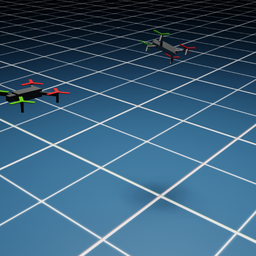
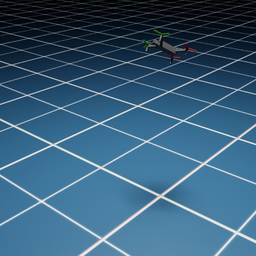
drone update
simulamos que los rotores giran y se detienen cuando corresponde

diff --git a/ov/tmpRafa/fleet/UAM_minidrone/UAM_minidrone.py b/ov/tmpRafa/fleet/UAM_minidrone/UAM_minidrone.py
@@ -53,6 +53,10 @@ class UAM_minidrone(BehaviorScript):
         self.forceSW_atr.Set(Gf.Vec3f(0,0,0))        
         
 
+        self.primRotStatic = self.prim.GetChild("rotors_spinning")
+
+
+
         ########################################################################
         ## Navigation parameters
 
@@ -224,6 +228,15 @@ class UAM_minidrone(BehaviorScript):
         self.current_time = current_time
         self.delta_time = delta_time
 
+
+
+        if self.current_time > 5:
+            self.command_off()
+            self.rotors_off()
+
+
+
+
         # Update the drone status
         self.IMU()
         self.servo_control()
@@ -244,14 +257,18 @@ class UAM_minidrone(BehaviorScript):
 
 
     def rotors_off(self):
+
         # Apagamos motores
         self.w_rotor_NE = 0
         self.w_rotor_NW = 0
         self.w_rotor_SE = 0
         self.w_rotor_SW = 0
         self.rotors_on = False
+        self.primRotStatic.SetActive(False)
+
         # Reset del control
         self.E = np.zeros((4, 1))
+
 
 
 
@@ -264,7 +281,7 @@ class UAM_minidrone(BehaviorScript):
             self.rotors_off()
             return
 
-
+        self.primRotStatic.SetActive(True)
 
         # Assign the model reference to be followed
         self.r[0, 0] = self.cmd_velX       # bXdot
